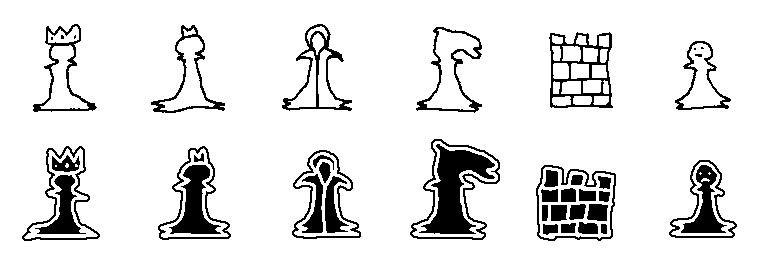
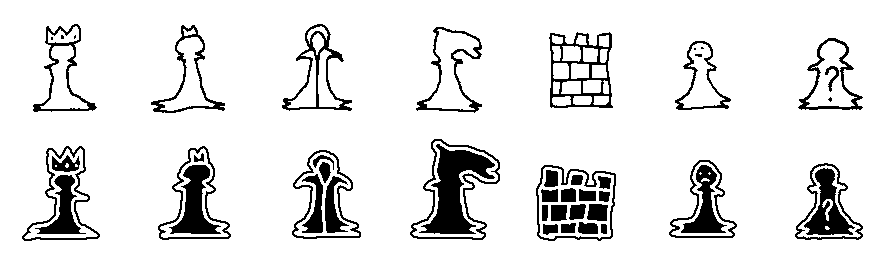
Add stratego elements

diff --git a/src/Game.cs b/src/Game.cs
@@ -20,21 +20,32 @@ namespace skaktego {
         }
 
         public GameState PlayGame(GameState startState) {
-            whitePlayer.GameStart(startState);
-            blackPlayer.GameStart(startState);
+            {
+                GameState whiteObfGameState = GameState.FromString(startState.ToString());
+                GameState blackObfGameState = GameState.FromString(startState.ToString());
+                whiteObfGameState.Obfuscate(ChessColors.White);
+                blackObfGameState.Obfuscate(ChessColors.Black);
+                whitePlayer.GameStart(whiteObfGameState);
+                blackPlayer.GameStart(blackObfGameState);
+            }
 
             bool checkMate = Engine.IsCheckmate(startState);
             bool tie = Engine.IsTie(startState);
 
             GameState gameState = GameState.FromString(startState.ToString());
             while (!checkMate && !tie && !quit) {
+                GameState obfGameState;
                 ChessMove move;
                 switch (gameState.player) {
                     case ChessColors.Black:
-                        move = blackPlayer.GetMove(gameState);
+                        obfGameState = GameState.FromString(gameState.ToString());
+                        obfGameState.Obfuscate(gameState.player);
+                        move = blackPlayer.GetMove(obfGameState);
                         break;
                     default:
-                        move = whitePlayer.GetMove(gameState);
+                        obfGameState = GameState.FromString(gameState.ToString());
+                        obfGameState.Obfuscate(gameState.player);
+                        move = whitePlayer.GetMove(obfGameState);
                         break;
                 }
 

diff --git a/src/Piece.cs b/src/Piece.cs
@@ -4,12 +4,13 @@ namespace skaktego {
 
     public enum PieceTypes {
         King, Queen, Bishop,
-        Knight, Rook, Pawn
+        Knight, Rook, Pawn,
+        Unknown
     }
 
     public class Piece {
         public const int PIECE_COLOR_COUNT = 2;
-        public const int PIECE_TYPE_COUNT = 6;
+        public const int PIECE_TYPE_COUNT = 7;
 
         public ChessColors Color { get; private set; }
         public PieceTypes Type { get; private set; }
@@ -54,10 +55,11 @@ namespace skaktego {
                 case 'p':
                     type = PieceTypes.Pawn;
                     break;
+                case 'u':
+                    type = PieceTypes.Unknown;
+                    break;
                 default:
-                    // TODO: Throw an error instead.
-                    Console.WriteLine("Can't construct piece from character '{0}'.", c);
-                    return null;
+                    throw new ArgumentException("Can't construct piece from character '" + c + "'");
             }
 
             return new Piece(color, type);
@@ -87,7 +89,7 @@ namespace skaktego {
                 }
             }
 
-            char c = '\0';
+            char c;
             switch (Type) {
                 case PieceTypes.King:
                     c = 'k';
@@ -107,6 +109,11 @@ namespace skaktego {
                 case PieceTypes.Pawn:
                     c = 'p';
                     break;
+                case PieceTypes.Unknown:
+                    c = 'u';
+                    break;
+                default:
+                    throw new InvalidOperationException("Piece type " + Type + " not recognized.");
             }
 
             // TODO: Throw exception if c == '\0'.

diff --git a/src/GameState.cs b/src/GameState.cs
@@ -79,6 +79,21 @@ namespace skaktego {
             this.fullmoveClock = fullmoveClock;
         }
 
+        /// <summary>
+        /// Obfuscate the board so <c>obfPlayer</c> does not see the enemies pieces.
+        /// </summary>
+        /// <param name="obfPlayer">The player to hide the opponents pieces from</param>
+        public void Obfuscate(ChessColors obfPlayer) {
+            for (int i = 0; i < board.Size; i++) {
+                for (int j = 0; j < board.Size; j++) {
+                    var piece = board.GetPiece(new BoardPosition(i, j));
+                    if (piece != null && piece.Color != obfPlayer) {
+                        piece.Promote(PieceTypes.Unknown);
+                    }
+                }
+            }
+        }
+
         public static GameState FromString(string stateStr) {
             string[] splitStr = stateStr.Split(' ');
 

diff --git a/src/Engine.cs b/src/Engine.cs
@@ -67,6 +67,9 @@ namespace skaktego {
 
                 case PieceTypes.King:
                     return GetPseudoLegalKingMoves(gameState, pos);
+                
+                case PieceTypes.Unknown:
+                    return new List<BoardPosition>();
 
                 default:
                     throw new ArgumentException("Unknown piece type " + piece.Type);
